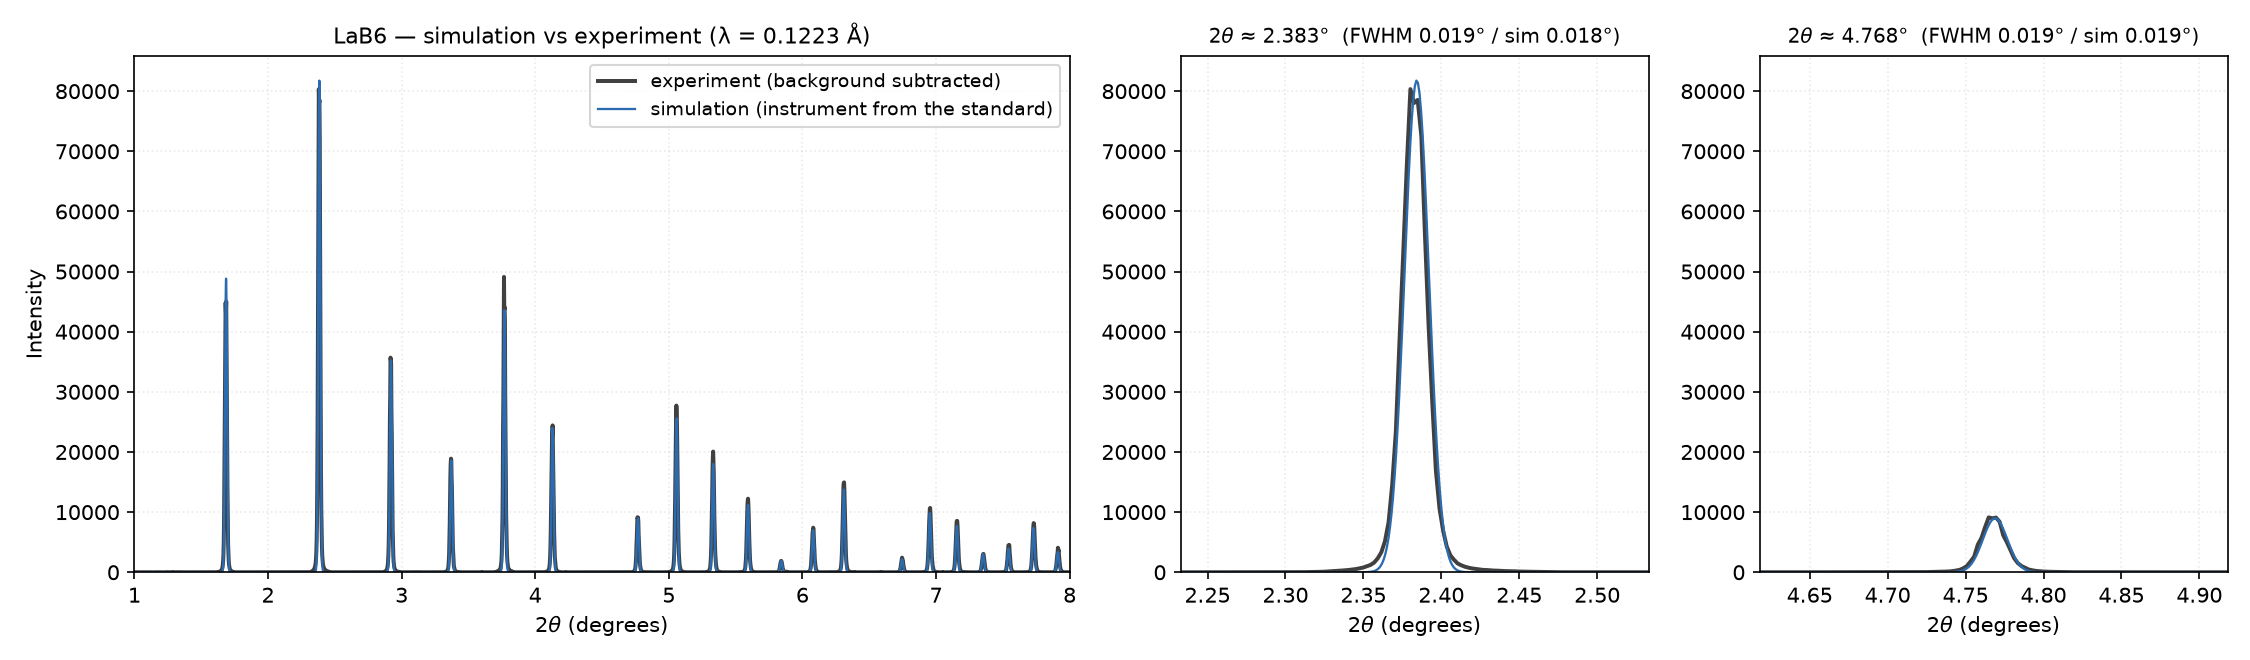
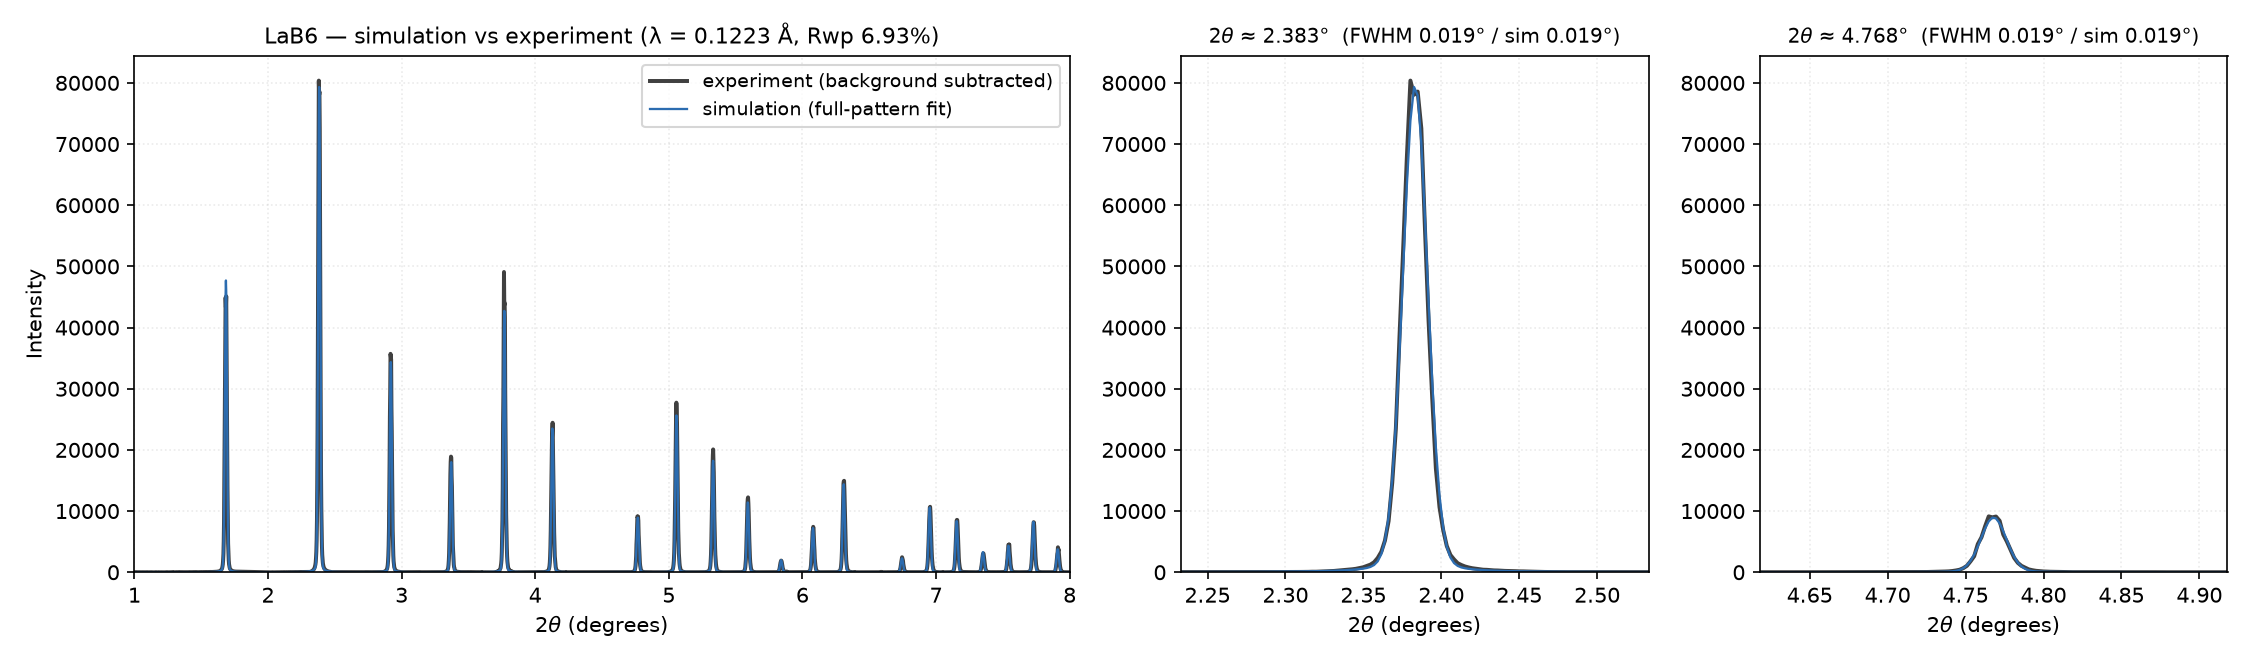
feat: drive the simulation-vs-experiment figure from the full-pattern fit
compare now fits zero/U/V/W/X/Y + Size + global dB with background knots;
the figure uses the fitted curve and reports Rwp (6.93% on lab6).

diff --git a/scripts/simulate_study.py b/scripts/simulate_study.py
@@ -38,7 +38,7 @@ ROOT = Path(__file__).resolve().parents[1]
 sys.path.insert(0, str(ROOT / "src"))
 
 from xrd_toolkit.simulation import (  # noqa: E402
-    b_iso_from_cif, d_spacing, fit_pattern, format_hkls, legacy_to_gsas,
+    b_iso_from_cif, d_spacing, fit_pattern, format_hkls,
     load_structure, pattern_from_cif, plot_fit, plot_fit_bottom,
     plot_profile, simulate_pattern, simulate_pattern_gsas, two_theta_from_d)
 
@@ -472,14 +472,15 @@ def study_microstructure(cif: Path, outdir: Path) -> None:
 def study_compare(cif: Path, outdir: Path, exp_tif: Path) -> None:
     """任务四：模拟 vs 实验（LaB₆ 标样 = 第三周处理的 `lab6-00024.tif`）。
 
-    按真实工作流走一遍"标样定仪器 → 再用仪器参数出模拟谱"：
+    2026-10-22 起，对比图直接用**全谱拟合结果**，不再走"FWHM 反解
+    U/V/W → 重新模拟"的简化路线：
       ① 用仓库引擎把实验图积分成 1D（几何 = config 里的 `lmfp1_lab6`，
          波长也从它读——这批是 0.1223 Å 的同步辐射数据）；
-      ② 自研自动基线扣背景（estimate_baseline_sliding）；
-      ③ 拿理论峰位在实验谱上找峰 → **定仪器参数**：零点偏移（峰位差的
-         中位）+ 展宽（FWHM² = U·tan²θ + V·tanθ + W 三系数最小二乘）；
-      ④ 用这套"标样定的仪器参数"+ CIF 热振动重出模拟谱 → 对比；
-      ⑤ 逐峰表：峰位残差 / FWHM（实验 vs 模拟）/ 相对强度（实验 vs 模拟）。
+      ② 自研自动基线（estimate_baseline_sliding）作为固定背景；
+      ③ 用 GSAS-II 同口径全谱最小二乘拟合：背景 + 0.25° 分段线性修正，
+         zero/U/V/W/X/Y + Size + 全局 ΔB 一起精修；
+      ④ 拟合曲线（扣掉背景后的峰部分）直接与实验对比；
+      ⑤ 逐峰表：峰位残差 / FWHM（实验 vs 拟合）/ 相对强度。
     """
     import matplotlib
     matplotlib.use("Agg")
@@ -502,45 +503,39 @@ def study_compare(cif: Path, outdir: Path, exp_tif: Path) -> None:
     img = load_diffraction_image(str(exp_tif))
     t_exp, y_exp = integrate_1d(img, npt=NPT, tth_min_deg=TMIN,
                                 tth_max_deg=TMAX, **geom)
-    # ② 扣背景（自研自动基线）
+    # ② 扣背景（自研自动基线，作为固定背景；拟合再加 0.25° 分段修正）
     base = estimate_baseline_sliding(t_exp, y_exp, 0.2)
-    y_sub = y_exp - base
 
     # 理论峰位（无零点、无展宽要求——只要位置）
     st_tt, st_ii, peaks, _ = pattern_from_cif(
         str(cif), wavelength=lam, two_theta_range=(TMIN, TMAX))
 
-    # ③ 实验找峰（窗口 ±0.08°，高度门槛 = 最强峰的 2%）
-    thr = 0.02 * y_sub.max()
+    # ③ 全谱拟合：直接用最新模型（背景修正 + Size + 全局 ΔB）
+    fit = fit_pattern(
+        structure, t_exp, y_exp, wavelength=lam, b_iso=b_iso,
+        background=base, background_knots=0.25, weights="poisson",
+        free=("zero", "u", "v", "w", "x", "y", "size_um", "b_iso"),
+        initial={"size_um": 0.75, "b_iso": 0.0})
+    t_sim = fit.tth
+    y_obs_peaks = fit.y_obs - fit.background
+    y_sim = fit.y_calc - fit.background
+    zero_fit = float(fit.params["zero"])
+
+    # ④ 实验找峰（窗口 ±0.08°，高度门槛 = 最强峰的 2%）
+    thr = 0.02 * y_obs_peaks.max()
     matched = []
     for tt, ii in zip(st_tt, st_ii):
-        m = (t_exp > tt - 0.08) & (t_exp < tt + 0.08)
-        if not m.any() or y_sub[m].max() < thr:
+        m = (t_sim > tt - 0.08) & (t_sim < tt + 0.08)
+        if not m.any() or y_obs_peaks[m].max() < thr:
             continue
-        center = _peak_center(t_exp, y_sub, tt, span=0.05)
-        fw = _measure_fwhm(t_exp, y_sub, tt, span=0.05)
-        height = float(y_sub[(t_exp > tt - 0.05) & (t_exp < tt + 0.05)].max())
+        center = _peak_center(t_sim, y_obs_peaks, tt, span=0.05)
+        fw = _measure_fwhm(t_sim, y_obs_peaks, tt, span=0.05)
+        height = float(y_obs_peaks[
+            (t_sim > tt - 0.05) & (t_sim < tt + 0.05)].max())
         matched.append((tt, ii, center, fw, height))
     if len(matched) < 4:
-        print(f"实验谱上只对上 {len(matched)} 根峰，拟合仪器参数样本不足")
+        print(f"实验谱上只对上 {len(matched)} 根峰，拟合样本不足")
         return
-    zero_fit = float(np.median([c - tt for tt, _, c, _, _ in matched]))
-    tt_arr = np.array([tt for tt, _, _, _, _ in matched])
-    fw_arr = np.array([fw for _, _, _, fw, _ in matched])
-    t_arr = np.tan(np.radians(tt_arr / 2.0))
-    coef = np.polyfit(t_arr, fw_arr ** 2, 2)   # [U, V, W]
-    u_fit, v_fit, w_fit = (float(c) for c in coef)
-
-    # ④ 用标样定的参数出模拟谱（GSAS 口径：面积守恒 + 同单位换算）
-    gsas_kw = legacy_to_gsas(u=u_fit, v=v_fit, w=w_fit)
-    t_sim, y_sim, _, _ = simulate_pattern_gsas(
-        structure, wavelength=lam, zero_deg=zero_fit,
-        u=gsas_kw["u"], v=gsas_kw["v"], w=gsas_kw["w"],
-        x=gsas_kw["x"], y=gsas_kw["y"], b_iso=b_iso,
-        two_theta_range=(TMIN, TMAX), step_deg=0.001, normalize=False)
-    k_scale = float(np.sum(y_sub * np.interp(t_exp, t_sim, y_sim))
-                    / np.sum(np.interp(t_exp, t_sim, y_sim) ** 2))
-    y_sim_scaled = y_sim * k_scale
 
     # ⑤ 逐峰数字
     def sim_fwhm_at(center):
@@ -558,20 +553,20 @@ def study_compare(cif: Path, outdir: Path, exp_tif: Path) -> None:
     mid = min(rows, key=lambda r: abs(r[0] - (TMIN + TMAX) / 2))
     fig, axes = plt.subplots(1, 3, figsize=(15, 4.4),
                              gridspec_kw={"width_ratios": [2.0, 1, 1]})
-    axes[0].plot(t_exp, y_sub, color="0.25", lw=1.9,
+    axes[0].plot(t_sim, y_obs_peaks, color="0.25", lw=1.9,
                  label="experiment (background subtracted)")
-    axes[0].plot(t_sim, y_sim_scaled, color="#2b6cb0", lw=1.1,
-                 label="simulation (instrument from the standard)")
+    axes[0].plot(t_sim, y_sim, color="#2b6cb0", lw=1.1,
+                 label="simulation (full-pattern fit)")
     axes[0].set_xlim(TMIN, TMAX); axes[0].set_ylim(bottom=0)
     axes[0].legend(loc="upper right", fontsize=9)
     axes[0].set_title(f"{material} — simulation vs experiment "
-                      f"(λ = {lam:.4f} Å)", fontsize=10.5)
+                      f"(λ = {lam:.4f} Å, Rwp {fit.rwp:.2f}%)", fontsize=10.5)
     axes[0].set_xlabel(r"2$\theta$ (degrees)"); axes[0].set_ylabel("Intensity")
     for ax, (tt, c, fw, fws, h_rel, _i) in zip(
             axes[1:], (strongest, mid)):
         w = 0.15
-        ax.plot(t_exp, y_sub, color="0.25", lw=1.9)
-        ax.plot(t_sim, y_sim_scaled, color="#2b6cb0", lw=1.1)
+        ax.plot(t_sim, y_obs_peaks, color="0.25", lw=1.9)
+        ax.plot(t_sim, y_sim, color="#2b6cb0", lw=1.1)
         ax.set_xlim(c - w, c + w); ax.set_ylim(bottom=0)
         ax.set_title(f"$2\\theta$ ≈ {c:.3f}°  (FWHM {fw:.3f}° / sim {fws:.3f}°)",
                      fontsize=9.5)
@@ -584,13 +579,13 @@ def study_compare(cif: Path, outdir: Path, exp_tif: Path) -> None:
     plt.close(fig)
 
     print(f"{material} 任务四：模拟 vs 实验（λ = {lam:.4f} Å，{TMIN:g}–{TMAX:g}°）")
-    print(f"  标样定仪器：零点 {zero_fit:+.4f}°")
-    print(f"    旧口径（deg²）：u={u_fit:.3e} v={v_fit:.3e} w={w_fit:.3e}"
-          f"（FWHM² = u·tan²θ+v·tanθ+w）")
-    print(f"    GSAS 口径（centideg²）：U={gsas_kw['u']:.3f} "
-          f"V={gsas_kw['v']:.3f} W={gsas_kw['w']:.3f}")
-    print(f"  对上 {len(matched)} 根峰（理论 {len(st_tt)} 根）；"
-          f"强度缩放系数 k = {k_scale:.1f}")
+    print(f"  全谱拟合：Rwp {fit.rwp:.3f}% / Rp {fit.rp:.3f}%")
+    print(f"  GSAS 口径：zero={zero_fit:+.4f}°  U={fit.params['u']:.3f}  "
+          f"V={fit.params['v']:.3f}  W={fit.params['w']:.3f}  "
+          f"X={fit.params['x']:.3f}  Y={fit.params['y']:.3f}")
+    print(f"  Size={fit.params['size_um']:.3f} µm；"
+          f"ΔB={fit.params['b_iso']:+.3f} Å²（叠在 CIF 各元素 B 上）")
+    print(f"  对上 {len(matched)} 根峰（理论 {len(st_tt)} 根）")
     print(f"  {'2θ理论':>8} {'Δ2θ':>7} {'FWHM实验':>9} {'FWHM模拟':>9} "
           f"{'I实验%':>7} {'I模拟%':>7}")
     for tt, c, fw, fws, h_rel, i_sim in rows:
